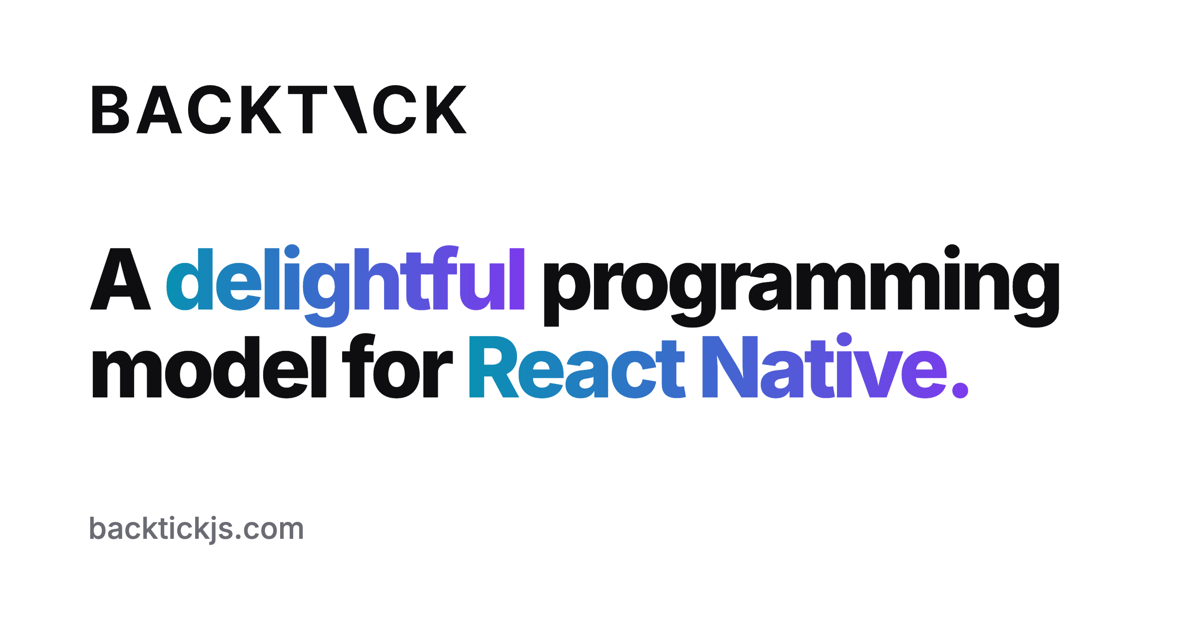
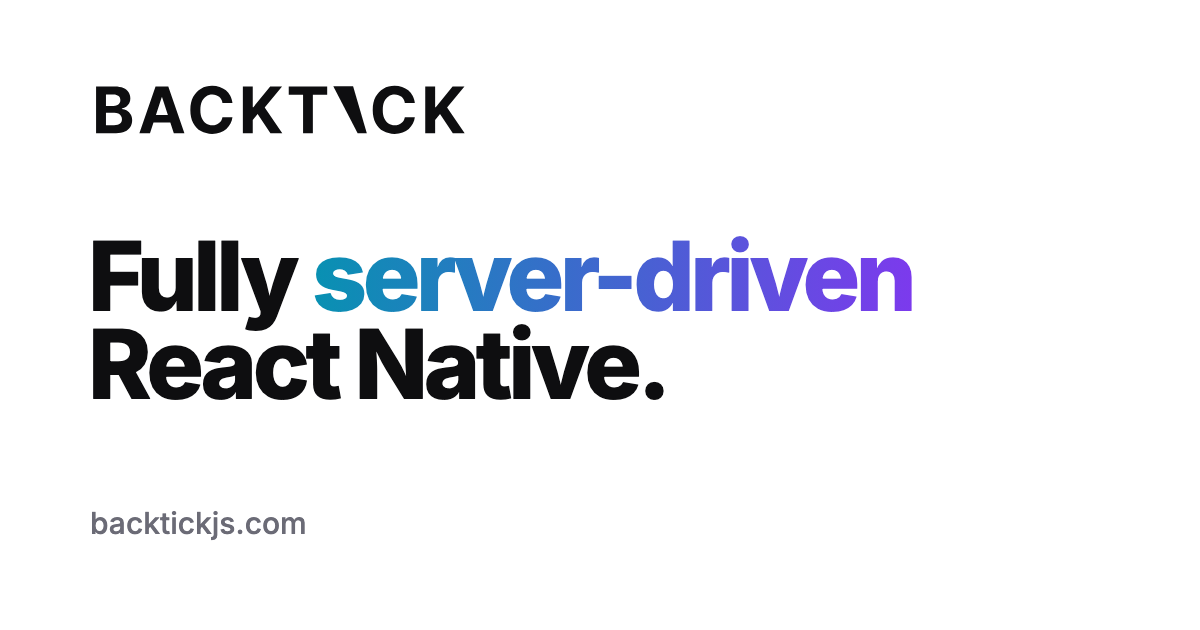
Update the assets to match the new hero

diff --git a/apps/backtickjs.com/src/pages.ts b/apps/backtickjs.com/src/pages.ts
@@ -36,12 +36,12 @@ export const PAGES: (Page & { path: string })[] = [
     Page: Home,
     title: "Backtick · Fully server-driven React Native",
     description:
-      "Fully server-driven React Native. Write every screen on your server," +
-      " with its layout, data and behaviour. Every change ships with your" +
-      " next deploy, not your next app release.",
+      "Fully server-driven React Native. Write every screen in React, on" +
+      " your server: layout, data and behaviour. Changes ship with" +
+      " your next deploy, not your next app store release.",
     // The hero's words and the links off it, for a reader that doesn't run
     // scripts: an agent's fetch, or a search engine.
-    staticHtml: `<div class="mx-auto box-border max-w-[1200px] px-6 pt-[80px]"><div class="pt-12"><h1 class="max-w-[12.5em] text-[clamp(40px,7.4vw,76px)] leading-[1.02] font-extrabold tracking-[-0.045em]">Fully server-driven React Native.</h1><p class="mt-[26px] max-w-[720px] text-xl leading-[1.55] text-muted">Write every screen on your server, with its layout, data and behaviour. Every change ships with your next deploy, not your next app release.</p><p class="mt-[34px]"><a href="/docs">Read the docs</a> · <a href="/docs/tutorial">Tutorial</a> · <a href="https://github.com/backtickjs/backtick">GitHub</a> · <a href="/llms.txt">llms.txt</a></p></div></div>`,
+    staticHtml: `<div class="mx-auto box-border max-w-[1200px] px-6 pt-[80px]"><div class="pt-12"><h1 class="max-w-[12.5em] text-[clamp(40px,7.4vw,76px)] leading-[1.02] font-extrabold tracking-[-0.045em]">Fully server-driven React Native.</h1><p class="mt-[26px] max-w-[720px] text-xl leading-[1.55] text-muted">Write every screen in React, on your server: layout, data and behaviour. Changes ship with your next deploy, not your next app store release.</p><p class="mt-[34px]"><a href="/docs">Read the docs</a> · <a href="/docs/tutorial">Tutorial</a> · <a href="https://github.com/backtickjs/backtick">GitHub</a> · <a href="/llms.txt">llms.txt</a></p></div></div>`,
   },
   ...DOCS_PAGES,
 ];

diff --git a/apps/backtickjs.com/src/html.ts b/apps/backtickjs.com/src/html.ts
@@ -67,7 +67,7 @@ export async function toHtml({
     <meta property="og:image" content="${ORIGIN}/og.png">
     <meta property="og:image:width" content="1200">
     <meta property="og:image:height" content="630">
-    <meta property="og:image:alt" content="Backtick: a delightful programming model for React Native.">
+    <meta property="og:image:alt" content="Backtick: fully server-driven React Native.">
     <meta name="twitter:card" content="summary_large_image">
     <link rel="icon" href="/favicon.png" sizes="32x32" type="image/png">
     <link rel="icon" href="/favicon.svg" type="image/svg+xml">

diff --git a/apps/backtickjs.com/src/components/Hero.tsx b/apps/backtickjs.com/src/components/Hero.tsx
@@ -10,8 +10,8 @@ export const Hero = cs`() => (
       {" React\u00a0Native."}
     </h1>
     <p class="mt-[26px] max-w-[720px] text-xl leading-[1.55] text-muted">
-      Write every screen on your server, with its layout, data and behaviour.
-      Every change ships with your next deploy, not your next app release.
+      Write every screen in React, on your server: layout, data and behaviour.
+      Changes ship with your next deploy, not your next app store release.
     </p>
     <div class="mt-[34px] flex flex-wrap gap-3">
       <$QuickStart />

diff --git a/apps/backtickjs.com/src/llms.ts b/apps/backtickjs.com/src/llms.ts
@@ -11,7 +11,7 @@ export const TEXT_FILES: { path: string; text: string }[] = [
     path: "/llms.txt",
     text: `# Backtick
 
-> A delightful programming model for React Native. Write screens on your server, type-checked end to end, and ship them without an app release.
+> Fully server-driven React Native. Write every screen in React, on your server: layout, data and behaviour. Changes ship with your next deploy, not your next app store release.
 
 ## Docs
 

diff --git a/README.md b/README.md
@@ -1,7 +1,7 @@
 <a href="https://backtickjs.com/">
   <picture>
     <source media="(prefers-color-scheme: dark)" srcset="assets/banner-dark.png" />
-    <img src="assets/banner.png" alt="Backtick: a delightful programming model for React Native." />
+    <img src="assets/banner.png" alt="Backtick: fully server-driven React Native." />
   </picture>
 </a>
 
@@ -13,8 +13,9 @@
 
 ## What is Backtick?
 
-A delightful programming model for React Native. Write screens on your
-server, type-checked end to end, and ship them without an app release.
+Fully server-driven React Native. Write every screen in React, on your
+server: layout, data and behaviour. Changes ship with your next deploy, not
+your next app store release.
 
 [Website](https://backtickjs.com) · [Docs](https://backtickjs.com/docs) ·
 [VS Code extension](https://marketplace.visualstudio.com/items?itemName=backtickjs.backtick-vscode) ·

diff --git a/apps/vscode-extension/README.md b/apps/vscode-extension/README.md
@@ -1,8 +1,9 @@
 # Backtick for VS Code
 
-Editor support for [Backtick](https://backtickjs.com), a delightful programming
-model for React Native: write screens on your server, type-checked end to
-end, and ship them without an app release.
+Editor support for [Backtick](https://backtickjs.com), fully server-driven
+React Native. Write every screen in React, on your server: layout, data and
+behaviour. Changes ship with your next deploy, not your next app store
+release.
 
 ## Features
 
